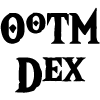
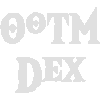
Added loading screens

diff --git a/oot-monster-codex-next/app/monster/[id]/page copy.tsx b/oot-monster-codex-next/app/monster/[id]/page copy.tsx
@@ -8,7 +8,6 @@ import sanitizeHtml from 'sanitize-html'
 import { faChevronLeft, faChevronRight } from '@fortawesome/free-solid-svg-icons'
 import { FontAwesomeIcon } from '@fortawesome/react-fontawesome'
 import Link from 'next/link'
-import Loading from './loading'
 
 interface Card {
   card: {
@@ -36,7 +35,8 @@ interface Total {
 }
 
 const Info = () => {
-  const onlyNumbersRegex = useMemo(() => /^\d+$/, [])
+
+  const onlyNumbersRegex = useMemo(() => /^\d+$/, []);
 
   const router = useRouter()
   const pathname = usePathname()
@@ -44,23 +44,22 @@ const Info = () => {
 
   const [card, setCard] = useState<Card>()
   const [total, setTotal] = useState<Total>()
-  const [loading, setLoading] = useState(true)
 
   useEffect(() => {
     if (id && onlyNumbersRegex.test(id)) {
-      const sanitizedId = sanitizeHtml(id as string, { allowedTags: [], allowedAttributes: {} })
+      const sanitizedId = sanitizeHtml(id as string, {allowedTags: [], allowedAttributes: {}})
 
-      setLoading(true)
+
       fetch('http://localhost:3001/monsters/total', {
         method: 'GET',
         headers: {
-          'Content-Type': 'application/json',
-        },
-      })
-        .then((response) => response.json())
-        .then((data) => {
+          'Content-Type': 'application/json'
+        }
+        })
+        .then(response => response.json())
+        .then(data => {
           setTotal(data)
-
+        
           if (parseInt(sanitizedId) > data.total) {
             router.push('/404')
             return
@@ -69,53 +68,44 @@ const Info = () => {
           fetch(`http://localhost:3001/monsters/monster/${sanitizedId}`, {
             method: 'GET',
             headers: {
-              'Content-Type': 'application/json',
-            },
-          })
-            .then((response) => response.json())
-            .then((data) => {
+              'Content-Type': 'application/json'
+            }
+            })
+            .then(response => response.json())
+            .then(data => {
               setCard(data)
-              document.title = `OoTM-Dex | ${data?.card?.name}`
-              setLoading(false)
+              document.title= `OoTM-Dex | ${data?.card?.name}`
             })
-            .catch((err) => {
-              console.log('Error: ', err)
-              setLoading(false)
-            })
+            .catch(err => console.log('Error: ',err))
         })
-        .catch((err) => {
-          console.log('Error: ', err)
-          setLoading(false)
-        })
-    } else {
-      router.push('/404')
-      return
-    }
+        .catch(err => console.log('Error: ', err))
+      }
+      else {
+        router.push('/404')
+        return
+      }
   }, [id, onlyNumbersRegex, router])
 
-  if (loading) {
-    return <Loading />
-  }
-
   return (
-    <div className="min-h-screen flex flex-col justify-between text-[#E0E0E0]">
+    <div className='min-h-screen flex flex-col justify-between text-[#E0E0E0]'>
       <HeaderNoSearch />
-      <div className="flex justify-center mt-4">
+      <div className='flex justify-center mt-4'>
         <Link href={`/monster/${card?.card.id ? (parseInt(card?.card.id) === 1 ? total?.total : parseInt(card?.card.id) - 1) : ''}`}>
-          <div className="flex items-center mr-8">
-            <FontAwesomeIcon icon={faChevronLeft} className="w-4 pr-4" />
+          <div className='flex items-center mr-8'>
+            <FontAwesomeIcon icon={faChevronLeft} className='w-4 pr-4' />
             <p># {`${card?.card.id ? (parseInt(card?.card.id) === 1 ? total?.total : parseInt(card?.card.id) - 1) : 'Loading ...'}`}</p>
           </div>
         </Link>
 
         <Link href={`/monster/${card?.card.id ? (parseInt(card?.card.id) == total?.total ? 1 : parseInt(card?.card.id) + 1) : ''}`}>
-          <div className="flex items-center ml-8">
+          <div className='flex items-center ml-8'>
             <p># {`${card?.card.id ? (parseInt(card?.card.id) == total?.total ? 1 : parseInt(card?.card.id) + 1) : 'Loading ...'}`}</p>
-            <FontAwesomeIcon icon={faChevronRight} className="w-4 pl-4" />
+            <FontAwesomeIcon icon={faChevronRight} className='w-4 pl-4' />
           </div>
         </Link>
+        
       </div>
-      <InfoCard card={card?.card} details={card?.details} />
+      <InfoCard card={card?.card} details={card?.details}/>
       <Footer />
     </div>
   )

diff --git a/oot-monster-codex-next/app/monster/[id]/loading.tsx b/oot-monster-codex-next/app/monster/[id]/loading.tsx
@@ -1,0 +1,78 @@
+import Skeleton from "../../_components/skeleton"
+import HeaderNoSearch from "../../_components/headernosearch"
+import Footer from "../../_components/footer"
+
+export default function Loading() {
+  return (
+    <div className="flex flex-col justify-between min-h-screen">
+        <HeaderNoSearch />
+
+        <div className="flex justify-center text-[#E0E0E0] my-4 animate-pulse">
+        
+
+        <div className="flex flex-col items-center mt-4">
+          <div className='flex'>
+            <p>#</p>
+            <div className='ml-4 text-center'>
+              <h2 className='text-2xl'>Loading...</h2>
+              <h3 className='text-sm text-[#B0B0B0]'></h3>
+            </div>
+          </div>
+          <div className='flex flex-col lg:flex-row'>
+            <div className="w-[320px] h-[320px] rounded-lg mt-4 bg-[#6C6C6C] p-4 lg:mr-4">
+                
+            </div>
+
+            <div>
+                <div className="w-[320px] mt-4">
+                    <h3 className='text-xl'></h3>
+                    <p className='mt-2'></p>
+                    <div className="flex mt-4">
+                        
+                    </div>
+                </div>
+                <div className={`flex flex-col flex-wrap w-[320px] h-auto rounded-md border border-[#E0E0E0] p-4 mt-4`}>
+                    <div className='flex'>
+                    <h3 className='w-1/3'>Hp</h3>
+                    <div className="ml-2 flex">
+                        
+                    </div>
+                    </div>
+                    <div className="flex">
+                    <h3 className='w-1/3'>Damage</h3>
+                    <div className="ml-2 flex">
+                    
+                    </div>
+                    </div>
+                    <div className="flex flex-col">
+                    <h3 className='w-1/3'>Dot</h3>
+                    <div className="ml-2 flex">
+                    
+                    </div>
+
+                    <div className="flex">
+                      <h3 className='w-1/3'>
+                              Strength
+                      </h3>
+                      
+                    </div>
+
+                    <div className="flex">
+                    <h3 className='w-1/3'>Weakness</h3>
+                    <p className="ml-2"></p>
+                    </div>
+                        <div className="flex flex-col">
+                        <h3 className='w-1/3'>Drops</h3>
+                    </div>
+                </div>
+            </div>
+          </div>
+        </div>
+
+
+        </div>
+      </div>
+      <Footer />
+    </div>
+  )
+}

diff --git a/oot-monster-codex-next/app/page copy.tsx b/oot-monster-codex-next/app/page copy.tsx
@@ -20,17 +20,35 @@ interface Cards {
 
 export default function Home() {
   const [cards, setCards] = useState<Cards[]>([])
-  const [loading, setLoading] = useState(true)
+  const [loading, setLoading] = useState(true)  // Add loading state
 
   useEffect(() => {
-    setLoading(true)
-
     fetch('http://localhost:3001/monsters', {
       method: 'GET',
       headers: {
-        'Content-Type': 'application/json',
-      },
+        'Content-Type': 'application/json'
+      }
     })
+    .then(response => response.json())
+    .then(data => {
+      setCards(data)
+      setLoading(false)  // Set loading to false when data is fetched
+    })
+    .catch(err => {
+      console.log(err)
+      setLoading(false)  // Set loading to false even if there's an error
+    })
+  }, [])
+
+  const handleSearch = (data: Cards[]) => {
+    if (data.length === 0) {
+      setLoading(true);
+      fetch('http://localhost:3001/monsters', {
+        method: 'GET',
+        headers: {
+          'Content-Type': 'application/json'
+        }
+      })
       .then(response => response.json())
       .then(data => {
         setCards(data)
@@ -40,26 +58,6 @@ export default function Home() {
         console.log(err)
         setLoading(false)
       })
-  }, [])
-
-  const handleSearch = (data: Cards[]) => {
-    if (data.length === 0) {
-      setLoading(true)
-      fetch('http://localhost:3001/monsters', {
-        method: 'GET',
-        headers: {
-          'Content-Type': 'application/json',
-        },
-      })
-        .then(response => response.json())
-        .then(data => {
-          setCards(data)
-          setLoading(false)
-        })
-        .catch(err => {
-          console.log(err)
-          setLoading(false)
-        })
     } else {
       setCards(data)
     }
@@ -68,7 +66,9 @@ export default function Home() {
   return (
     <div className='min-h-screen flex flex-col justify-between'>
       <Header onSearch={handleSearch} defaultData={cards} />
+
       <ToTop />
+
       <div className="flex flex-wrap justify-center">
         {loading ? <Loading /> : cards.map((item: Cards) => (
           <Card
@@ -85,6 +85,7 @@ export default function Home() {
           />
         ))}
       </div>
+
       <Footer />
     </div>
   )

diff --git a/oot-monster-codex-next/app/_components/skeleton.tsx b/oot-monster-codex-next/app/_components/skeleton.tsx
@@ -1,0 +1,42 @@
+import React from 'react'
+
+const Skeleton = () => {
+    return (
+        <>
+            <div
+              className={`rounded-lg mb-2 animate-pulse
+                bg-[#2A2A2A] text-[#E0E0E0] shadow-[5px_5px_15px_0_rgba(255,255,255,0.2)] hover:shadow-[-5px_5px_15px_0_rgba(255,255,255,0.2)] p-4 w-80 h-[500px] flex flex-col duration-500 ease-in-out transition-all
+                `}
+            >
+              <div className='w-[250px] h-[208px] mx-auto rounded-lg bg-[#6C6C6C]'></div>
+              <div>
+            <div className='flex justify-center items-center relative mt-8'>
+              <p className="text-sm text-[#B0B0B0] absolute left-5">{`#`}</p>
+              <h2 className="text-[#B0B0B0] text-sm text-center">Loading...</h2>
+            </div>
+            <p className='text-[#B0B0B0] text-sm text-center'></p>
+            <p className="text-sm text-center mt-2"></p>
+          </div>
+          <div className='flex flex-col'>
+            <div className={`flex justify-between`}>
+                <p className='flex text-[#FF6347] ml-2'><span className={``}>HP:</span>
+                  </p>
+                <p className={`flex text-[#CC03CD] ml-2`}> <span className={``}>DMG:</span> 
+                  
+              
+                </p>
+                <p className={`flex text-[#3ec545] ml-2`}><span className={``}>DOT:</span>
+                  
+                </p>
+              </div>
+              <p className='text-[12px] mt-4 text-[#B0B0B0]'>HP = Health points, DMG = Damage, DOT = Damage Over Time</p>
+          </div>
+        
+
+      </div>
+            
+        </>
+    )
+}
+
+export default Skeleton

diff --git a/oot-monster-codex-next/app/not-found.tsx b/oot-monster-codex-next/app/not-found.tsx
@@ -4,27 +4,6 @@ import HeaderNoSearch from './_components/headernosearch'
 import Footer from './_components/footer'
 import InfoCard from './_components/infocard'
 
-interface Card {
-  card: {
-    id: string
-    name: string
-    description: string
-    boss_text?: string
-    navi_text?: string
-    hp: number
-    damage: number
-    dot: number
-    weakness: string
-    strength: string
-    image_url: string
-  }
-  details?: {
-    item?: string
-    amount?: string
-    rate?: number
-  }[]
-}
-
 const PageNotFound = () => {
 
   const card = {
@@ -34,11 +13,11 @@ const PageNotFound = () => {
       description: 'The page you requested could not be found.',
       boss_text: '',
       navi_text: 'Hey, listen! This page does not exist.',
-      hp: 0,
-      damage: 0,
-      dot: 0,
-      weakness: '',
-      strength: '',
+      hp: 4,
+      damage: 4,
+      dot: 4,
+      weakness: 'Correct links',
+      strength: 'Very strong',
       image_url: ''
     },
     details: []

diff --git a/oot-monster-codex-next/app/layout.tsx b/oot-monster-codex-next/app/layout.tsx
@@ -8,7 +8,7 @@ export const metadata: Metadata = {
   title: "OoTM-Dex",
   description: "A collection of all enemy npcs, their description, stats, etc",
   icons: {
-    icon: "/ootm-dex.ico",
+    icon: "/ootm-dex-white.ico",
   },
 }
 

diff --git a/oot-monster-codex-next/app/loading.tsx b/oot-monster-codex-next/app/loading.tsx
@@ -1,0 +1,9 @@
+import Skeleton from "./_components/skeleton"
+
+export default function Loading() {
+  return (
+    <div className="text-[#E0E0E0] my-4">
+      <Skeleton />
+    </div>
+  )
+}
